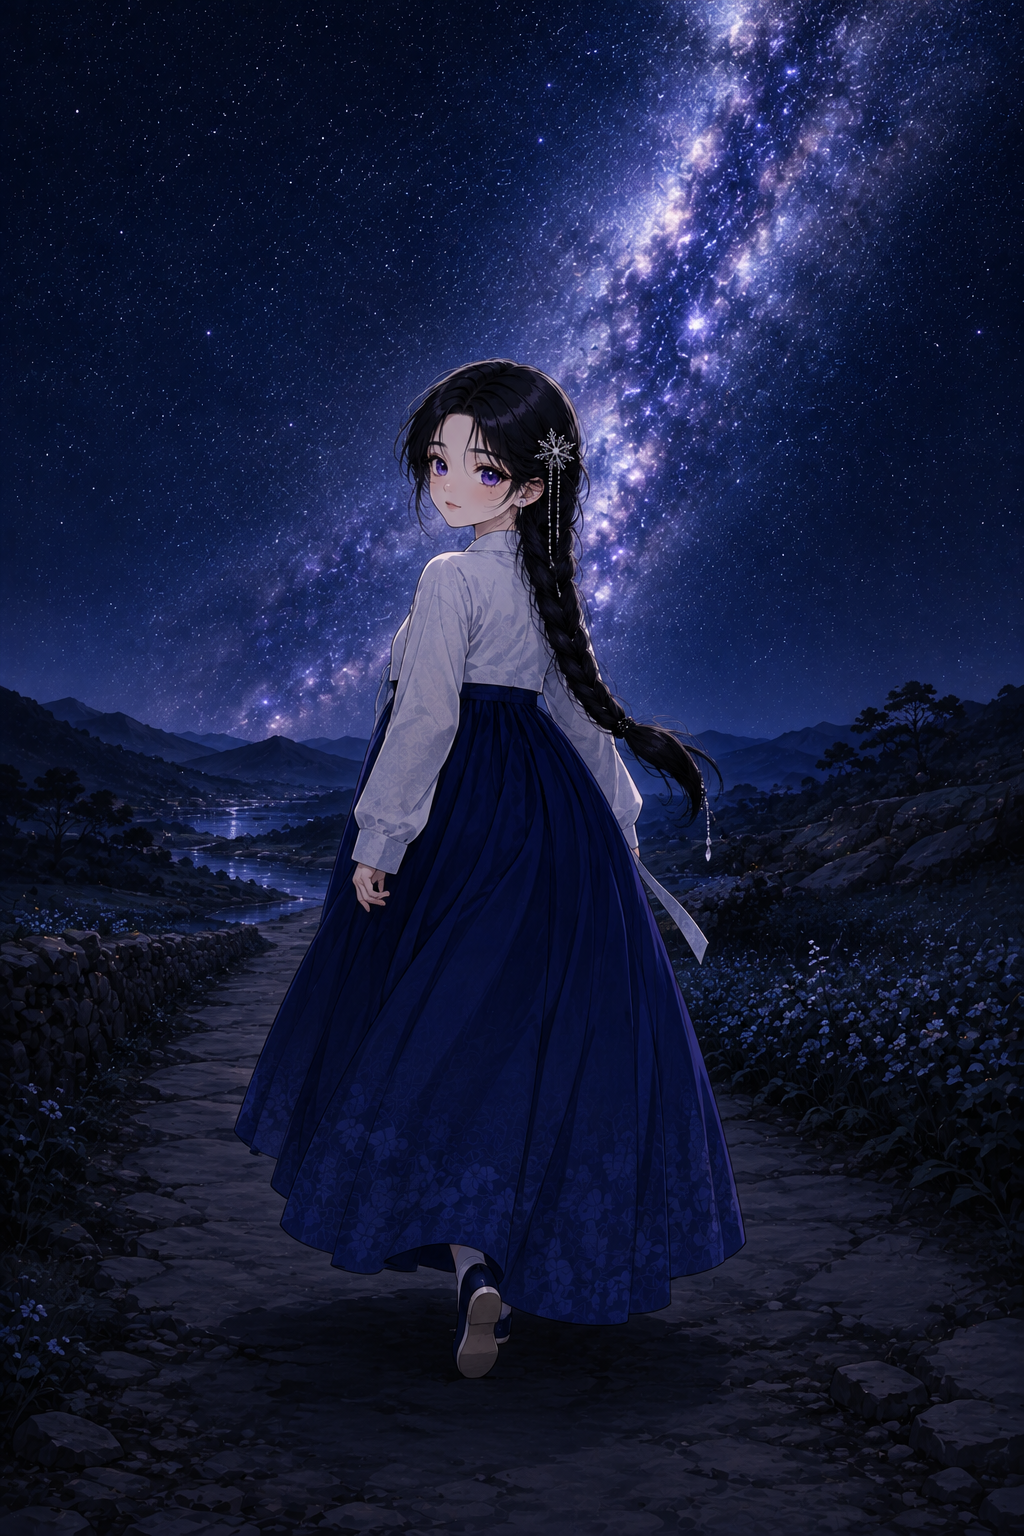
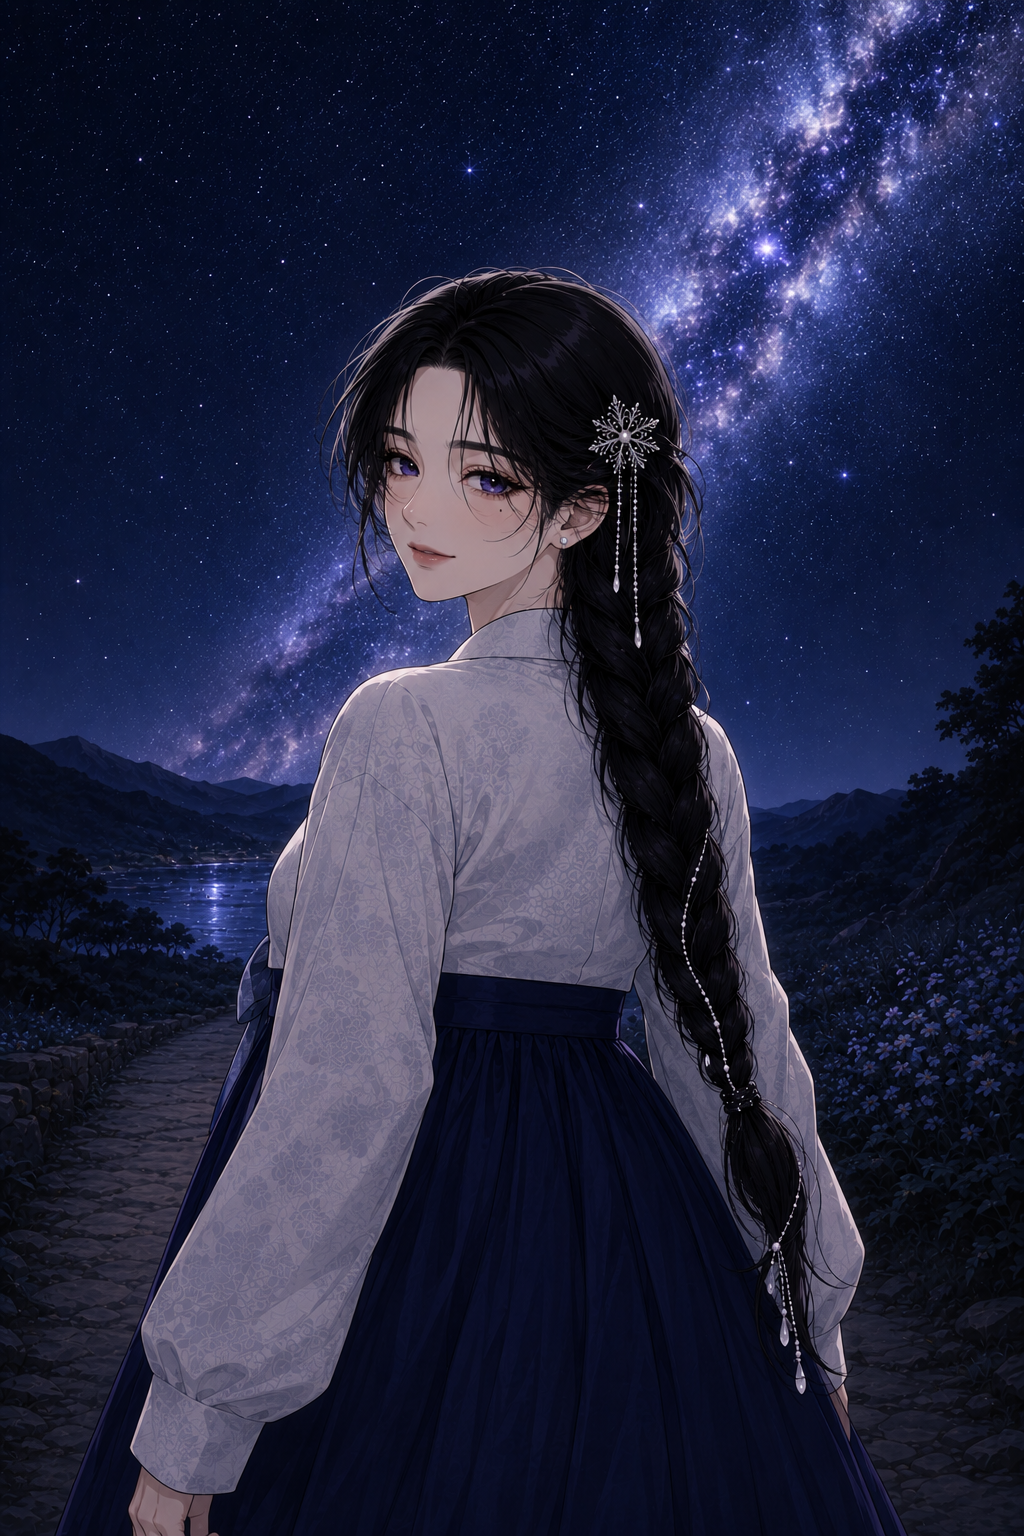
t15 재생성 + 나이 가드 상설화 — 어려 보이는 문제
형님 지적: 「이미지 중에 좀 어린 애기같은 이미지들을 일부러 뽑은거야?」
확인해 보니 SD 2장(치비)은 의도가 맞고, **t15 는 내 실수**였다.

[원인] 형님이 확정본(V시리즈) 만들 때 「30~32세 조항 강화 — 광대 밑 그늘·긴 얼굴 차단」을
  이미 넣어 두셨는데, 내가 컷 프롬프트를 쓰면서 시그니처(눈·점·비녀)는 매번 다시 썼으면서
  **나이 가드만 빼먹었다.** 얼굴이 작게 잡히는 컷(뒷모습·와이드)일수록 웹툰 기본값이
  어린 쪽으로 흐르기 때문에, 가드가 없으면 이렇게 된다.

[검수 구멍] 3앵커(눈 색·점·은사)에 **나이 항목이 없어서** 통과시켰다.
  전 컷 얼굴을 크롭해 나란히 놓고 재판정한 결과 — j1·w3·w7·t14 는 30대 초반으로 정상,
  **t15 만 십대로 읽혔다.**

[조치]
  · t15 재생성 — 나이 가드를 명시하고 카메라를 더 당겨(얼굴이 크게 읽히게) 다시 뽑아 교체.
  · **3앵커 → 4앵커**: ④ 나이(30대 초반으로 읽히나)를 게이트에 추가.
  · 나이 가드 문구를 캐릭터시트_프롬프트.md 와 발주 시트 **양쪽에 상설 블록으로 못 박았다** —
    인물 컷마다 반드시 함께 붙인다. 발주 시트의 「20대 후반」 표기도 30대 초반으로 정정.

검증: tsc 0 · build 통과 · t15 교체 확인(얼굴 크롭 육안: 성인 비율) ·
  티저 렌더 이미지 10장 **깨짐 0 · 플레이스홀더 0**

diff --git a/직녀/캐릭터시트_프롬프트.md b/직녀/캐릭터시트_프롬프트.md
@@ -12,7 +12,7 @@
 |---|---|---|
 | 1 | **캐릭터 시트 정본 1장** | fin-face 에서 파생한 모델 시트(정면·반측·측면·전신·표정·시그니처) — 모든 컷의 신분증 |
 | 2 | **첨부 프로토콜** | 새 채팅이든 아니든 **매 컷마다 시트를 첨부** — 대화 기억에 의존하지 않는다 |
-| 3 | **3앵커 게이트** | 눈·점·은사 중 2개 어긋나면 리터치 말고 **재생성** |
+| 3 | **4앵커 게이트** | 눈·점·은사·**나이** 중 2개 어긋나면 리터치 말고 **재생성** |
 | 4 | **포즈 라이브러리** | 합격 컷을 다음 컷의 2번 레퍼런스로 재사용 (1번은 항상 시트) |
 | 5 | **정본 파일 규칙** | `직녀/캐릭터시트_정본.png` 단 한 장 — 교체는 형님 픽으로만 |
 
@@ -54,7 +54,7 @@ chest — no cleavage, no bare shoulders. ABSOLUTELY NO RED, CRIMSON OR PINK any
 
 - 몇 번 리롤해서 **fin-face 와 같은 사람으로 보이는 판**을 픽
 - 저장: `직녀/캐릭터시트_정본.png`
-- ⚠ 시트 자체를 3앵커(아래)로 검수하고 나서 정본 승격
+- ⚠ 시트 자체를 4앵커(아래)로 검수하고 나서 정본 승격
 
 ## 2. 컷 뽑을 때 (매번)
 
@@ -64,17 +64,33 @@ chest — no cleavage, no bare shoulders. ABSOLUTELY NO RED, CRIMSON OR PINK any
 + 문구: "Use the attached model sheet as the ONLY identity reference — the SAME woman."
 + 에셋_생산_프롬프트시트.md ② 고정 블록
 + ③ 표에서 해당 컷 COMPOSITION 한 줄
++ **나이 가드**(아래) — 빼면 어려진다. 매번 붙인다.
+```
+
+### 나이 가드 (모든 인물 컷에 필수)
+
+```
+AGE IS CRITICAL: she is 32 years old. Adult facial proportions - a longer oval face,
+NOT a round childlike face. Realistic eye size, NOT enlarged anime eyes. Visible nose
+bridge, defined cheekbones, a composed grown woman. She must NEVER look like a teenager
+or a doll.
 ```
 
 새 채팅을 열어도 똑같이 한다 — **채팅 기억이 아니라 첨부가 신분증이다.**
 
-## 3. 3앵커 게이트 (컷 받자마자 30초)
+## 3. **4앵커** 게이트 (컷 받자마자 30초)
 
 | 앵커 | 본다 |
 |---|---|
 | ① 눈 | **남보라**로 읽히나(검정·갈색으로 죽지 않았나) + 은빛 별점 |
 | ② 점 | **왼눈 바깥 밑** 그 자리에 있나 (다른 데 생기면 탈락) |
 | ③ 은사·비녀 | 은사가 목→머리→땋은 끝으로 흐르나 + 눈꽃 비녀 |
+| ④ **나이** | **30대 초반으로 읽히나.** 둥근 얼굴·큰 눈으로 애기처럼 나오면 탈락 |
+
+> ④는 2026-08-20 에 추가됐다. 앵커 3개(눈·점·은사)만 보다가 **t15 가 십대처럼 나온 걸 통과시켰다.**
+> 형님이 확정본 만들 때 「30~32세 조항 강화(광대 밑 그늘·긴 얼굴 차단)」를 이미 넣어 뒀는데
+> 내가 컷 프롬프트에서 그 가드만 빼먹은 게 원인이었다.
+> **얼굴이 작게 나오는 컷(뒷모습·와이드)일수록 웹툰 기본값이 어린 쪽으로 흐른다** — 그런 컷은 특히 주의.
 
 **2개 이상 어긋나면 그 판은 버리고 재생성** — 부분 수정 요청은 얼굴을 더 밀어버린다.
 (+ 기존 검수: 빨강 0 · 저고리 여밈 · 375px 축소 얼굴 생존)

diff --git a/직녀/티저_웹툰컷_발주시트_연애비책판.md b/직녀/티저_웹툰컷_발주시트_연애비책판.md
@@ -39,7 +39,17 @@ Lighting: cool moonlight and starlight, deep shadows, quiet mood.
 No text, no lettering, no watermarks, no signature.
 ```
 
-**캐릭터 고정(직녀)**: 20대 후반 한국 여성, 검은 머리 낮게 묶음, **남보라 눈동자**, 남색·먹빛 한복(붉은색 금지),
+**⚠ 나이 가드 — 인물 컷마다 반드시 함께 붙인다.** 빼면 어려진다(t15 가 십대처럼 나와 재생성했다).
+얼굴이 작게 잡히는 컷(뒷모습·와이드)일수록 웹툰 기본값이 어린 쪽으로 흐른다.
+
+```
+AGE IS CRITICAL: she is 32 years old. Adult facial proportions - a longer oval face,
+NOT a round childlike face. Realistic eye size, NOT enlarged anime eyes. Visible nose
+bridge, defined cheekbones, a composed grown woman. She must NEVER look like a teenager
+or a doll.
+```
+
+**캐릭터 고정(직녀)**: 30대 초반 한국 여성, 검은 머리 낮게 묶음, **남보라 눈동자**, 남색·먹빛 한복(붉은색 금지),
 차분하고 확신 있는 표정.
 
 ## 3. 컷 10장
